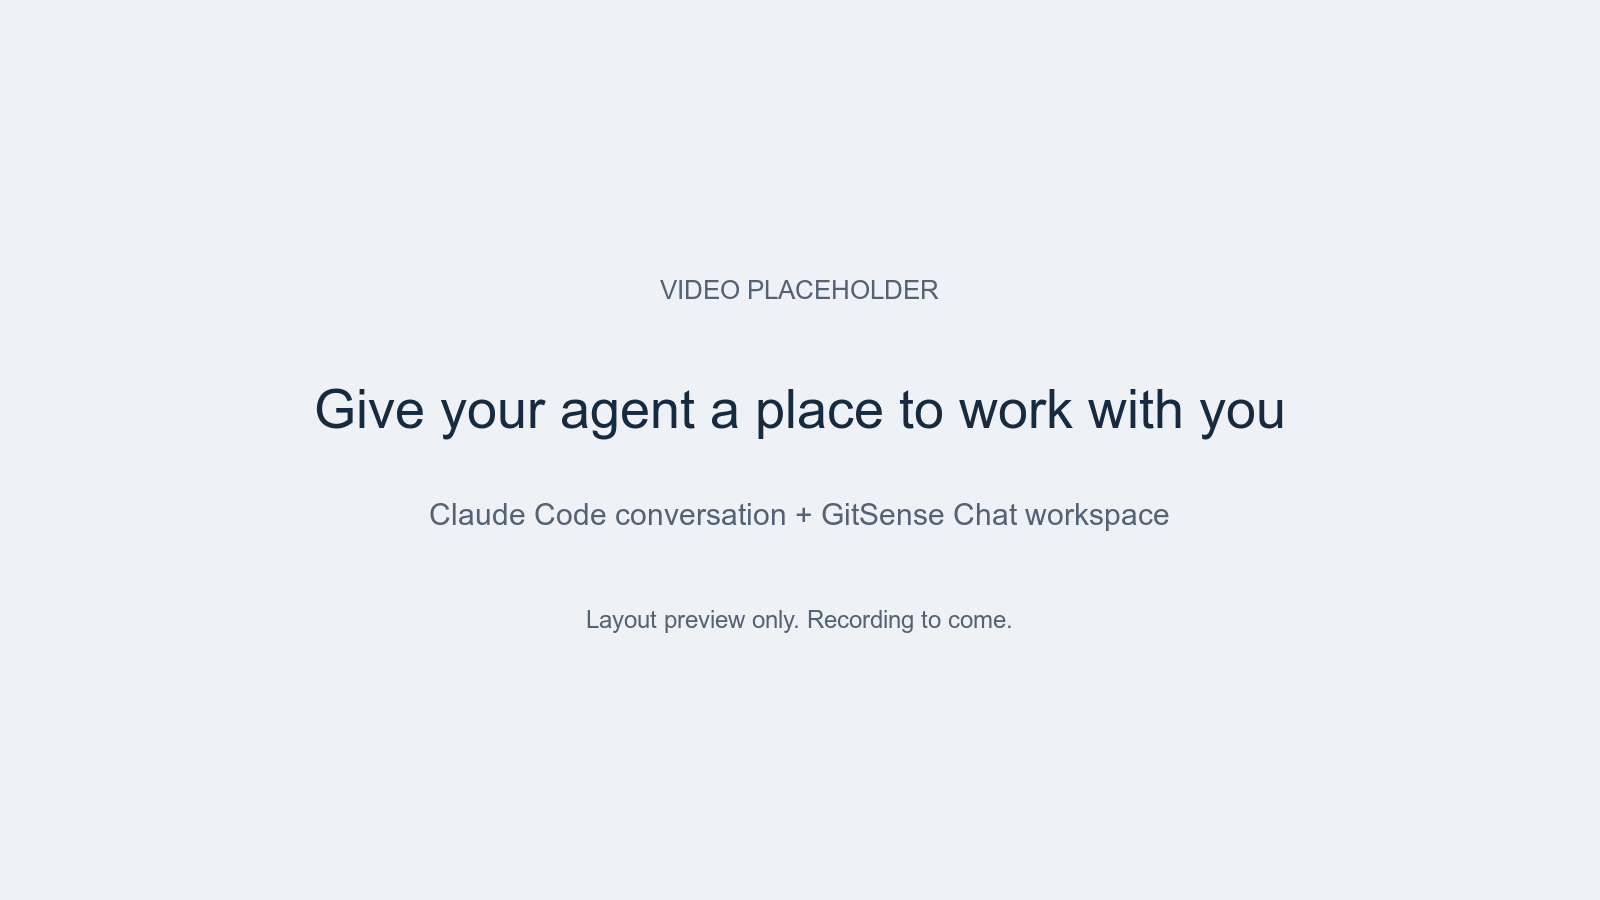
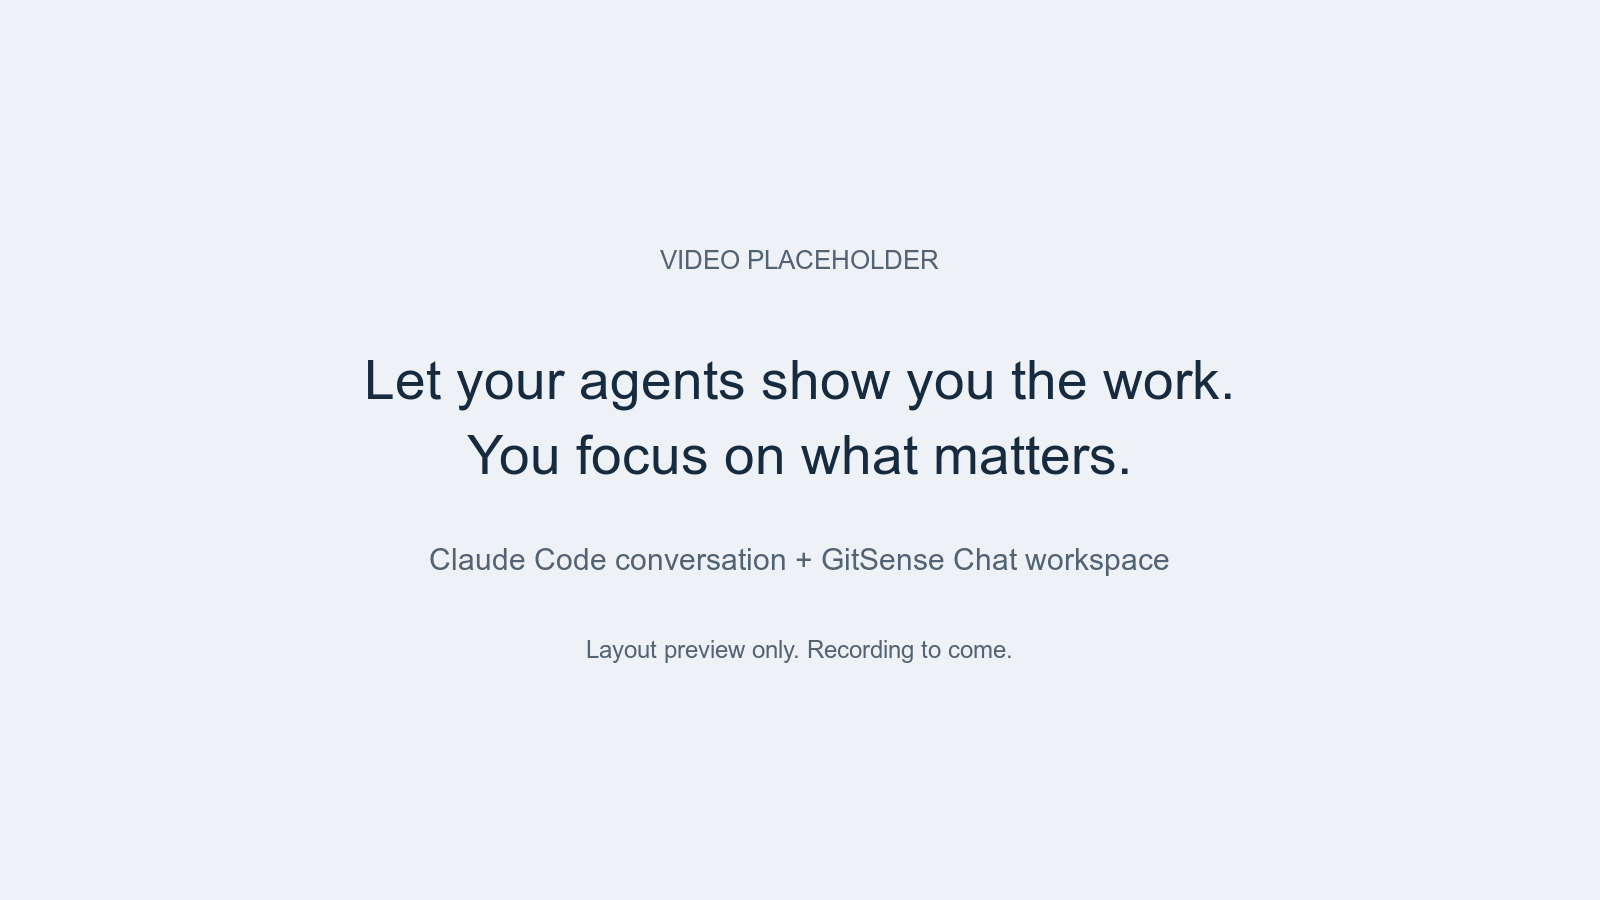
Emphasize showing the work and helping people focus

diff --git a/README-v2.md b/README-v2.md
@@ -30,11 +30,11 @@ Install and configure GitSense Chat for me. Start by running `gsc docs help`.
 
 You can also [build the CLI from source](https://github.com/gitsense/gsc-cli). See [Runtime details](README-previous.md#runtime-details) for Pi setup and bringing in sessions from other agents.
 
-## Give your agent a place to work with you
+## Let your agents show you the work. You focus on what matters.
 
-It can arrange the material you're working with and highlight what you're discussing, helping you stay oriented as the work develops.
+Your agents can arrange files, highlight the passages you're discussing and leave notes for you or another agent to review. You can inspect the source and follow the discussion without searching earlier replies for what you need.
 
-Watch what happens when you ask Claude Code, "Help me review this commit." You keep talking in its terminal while the same agent arranges the files in GitSense Chat and helps you work through the changes.
+Watch what happens when you ask Claude Code, "Help me review this commit." The conversation stays in its terminal while Claude displays files in GitSense Chat and adjusts the view as you work through the changes.
 
 <img src="assets/readme-v2/collaborate-placeholder.png" alt="Video placeholder: Claude Code in its terminal beside a GitSense Chat Group showing relevant files and passages." width="100%">
 

diff --git a/README.md b/README.md
@@ -30,11 +30,11 @@ Install and configure GitSense Chat for me. Start by running `gsc docs help`.
 
 You can also [build the CLI from source](https://github.com/gitsense/gsc-cli). See [Runtime details](README-previous.md#runtime-details) for Pi setup and bringing in sessions from other agents.
 
-## Give your agent a place to work with you
+## Let your agents show you the work. You focus on what matters.
 
-It can arrange the material you're working with and highlight what you're discussing, helping you stay oriented as the work develops.
+Your agents can arrange files, highlight the passages you're discussing and leave notes for you or another agent to review. You can inspect the source and follow the discussion without searching earlier replies for what you need.
 
-Watch what happens when you ask Claude Code, "Help me review this commit." You keep talking in its terminal while the same agent arranges the files in GitSense Chat and helps you work through the changes.
+Watch what happens when you ask Claude Code, "Help me review this commit." The conversation stays in its terminal while Claude displays files in GitSense Chat and adjusts the view as you work through the changes.
 
 <img src="assets/readme-v2/collaborate-placeholder.png" alt="Video placeholder: Claude Code in its terminal beside a GitSense Chat Group showing relevant files and passages." width="100%">
 
